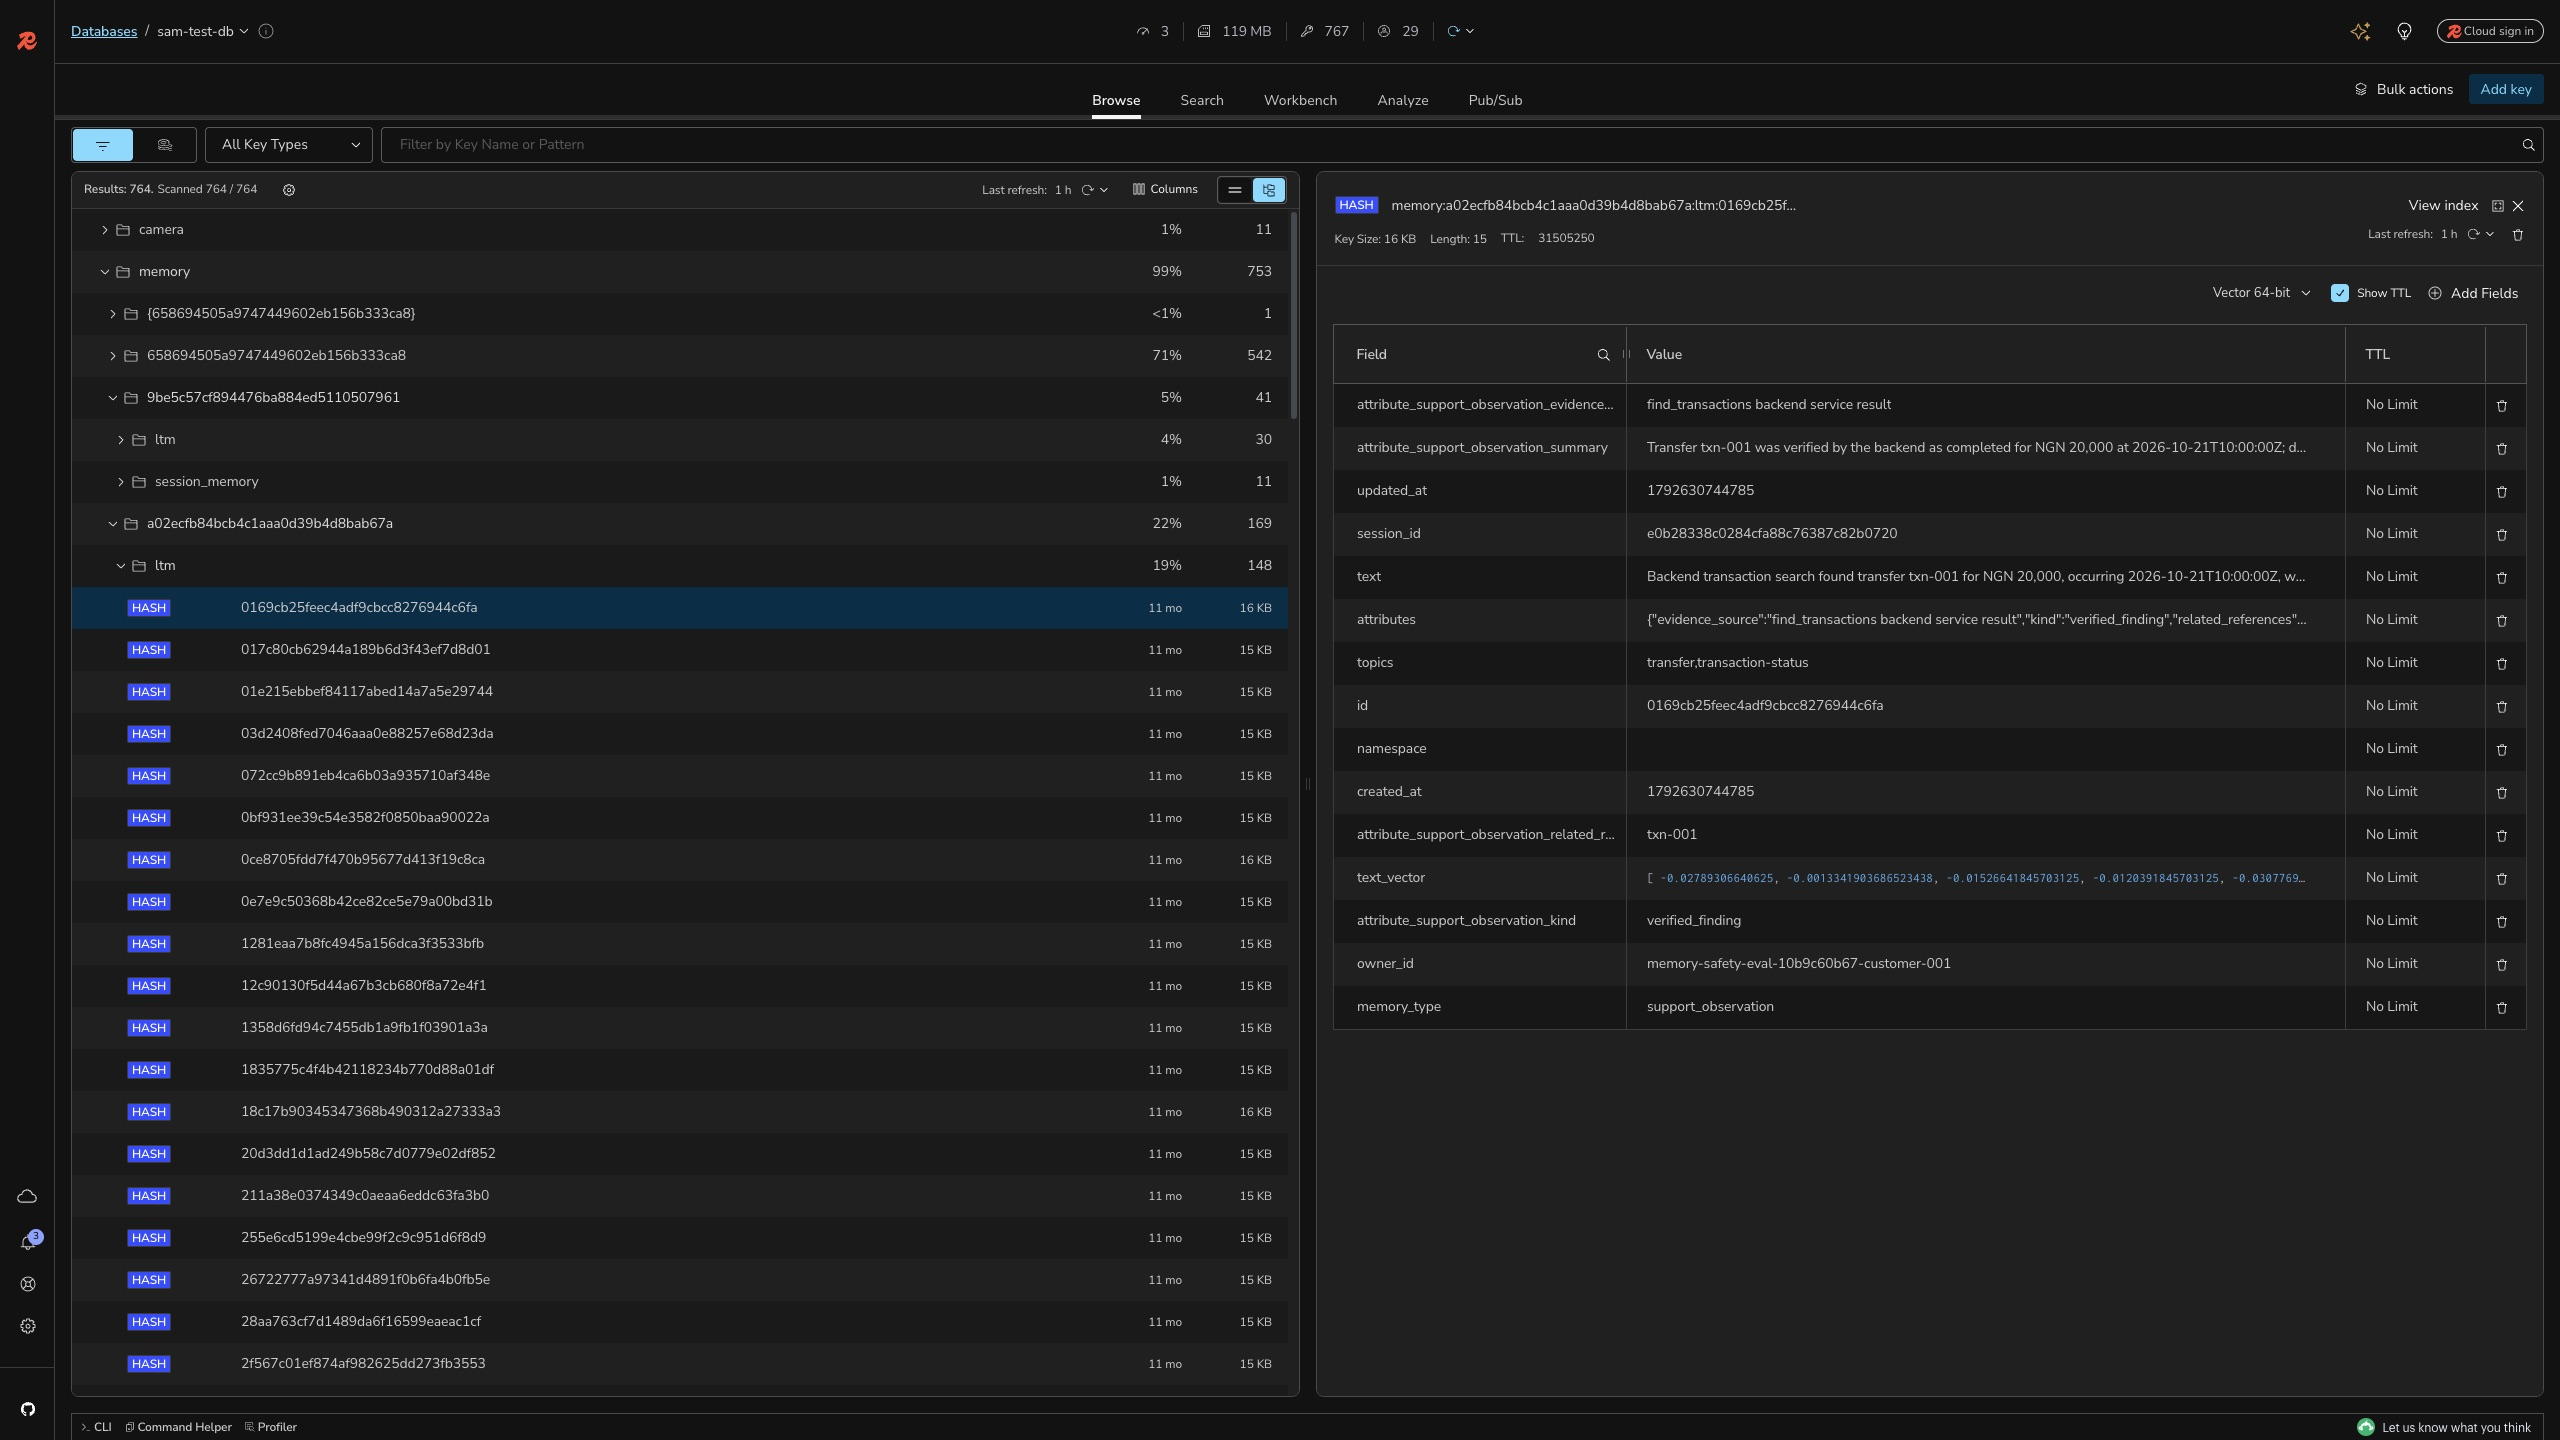
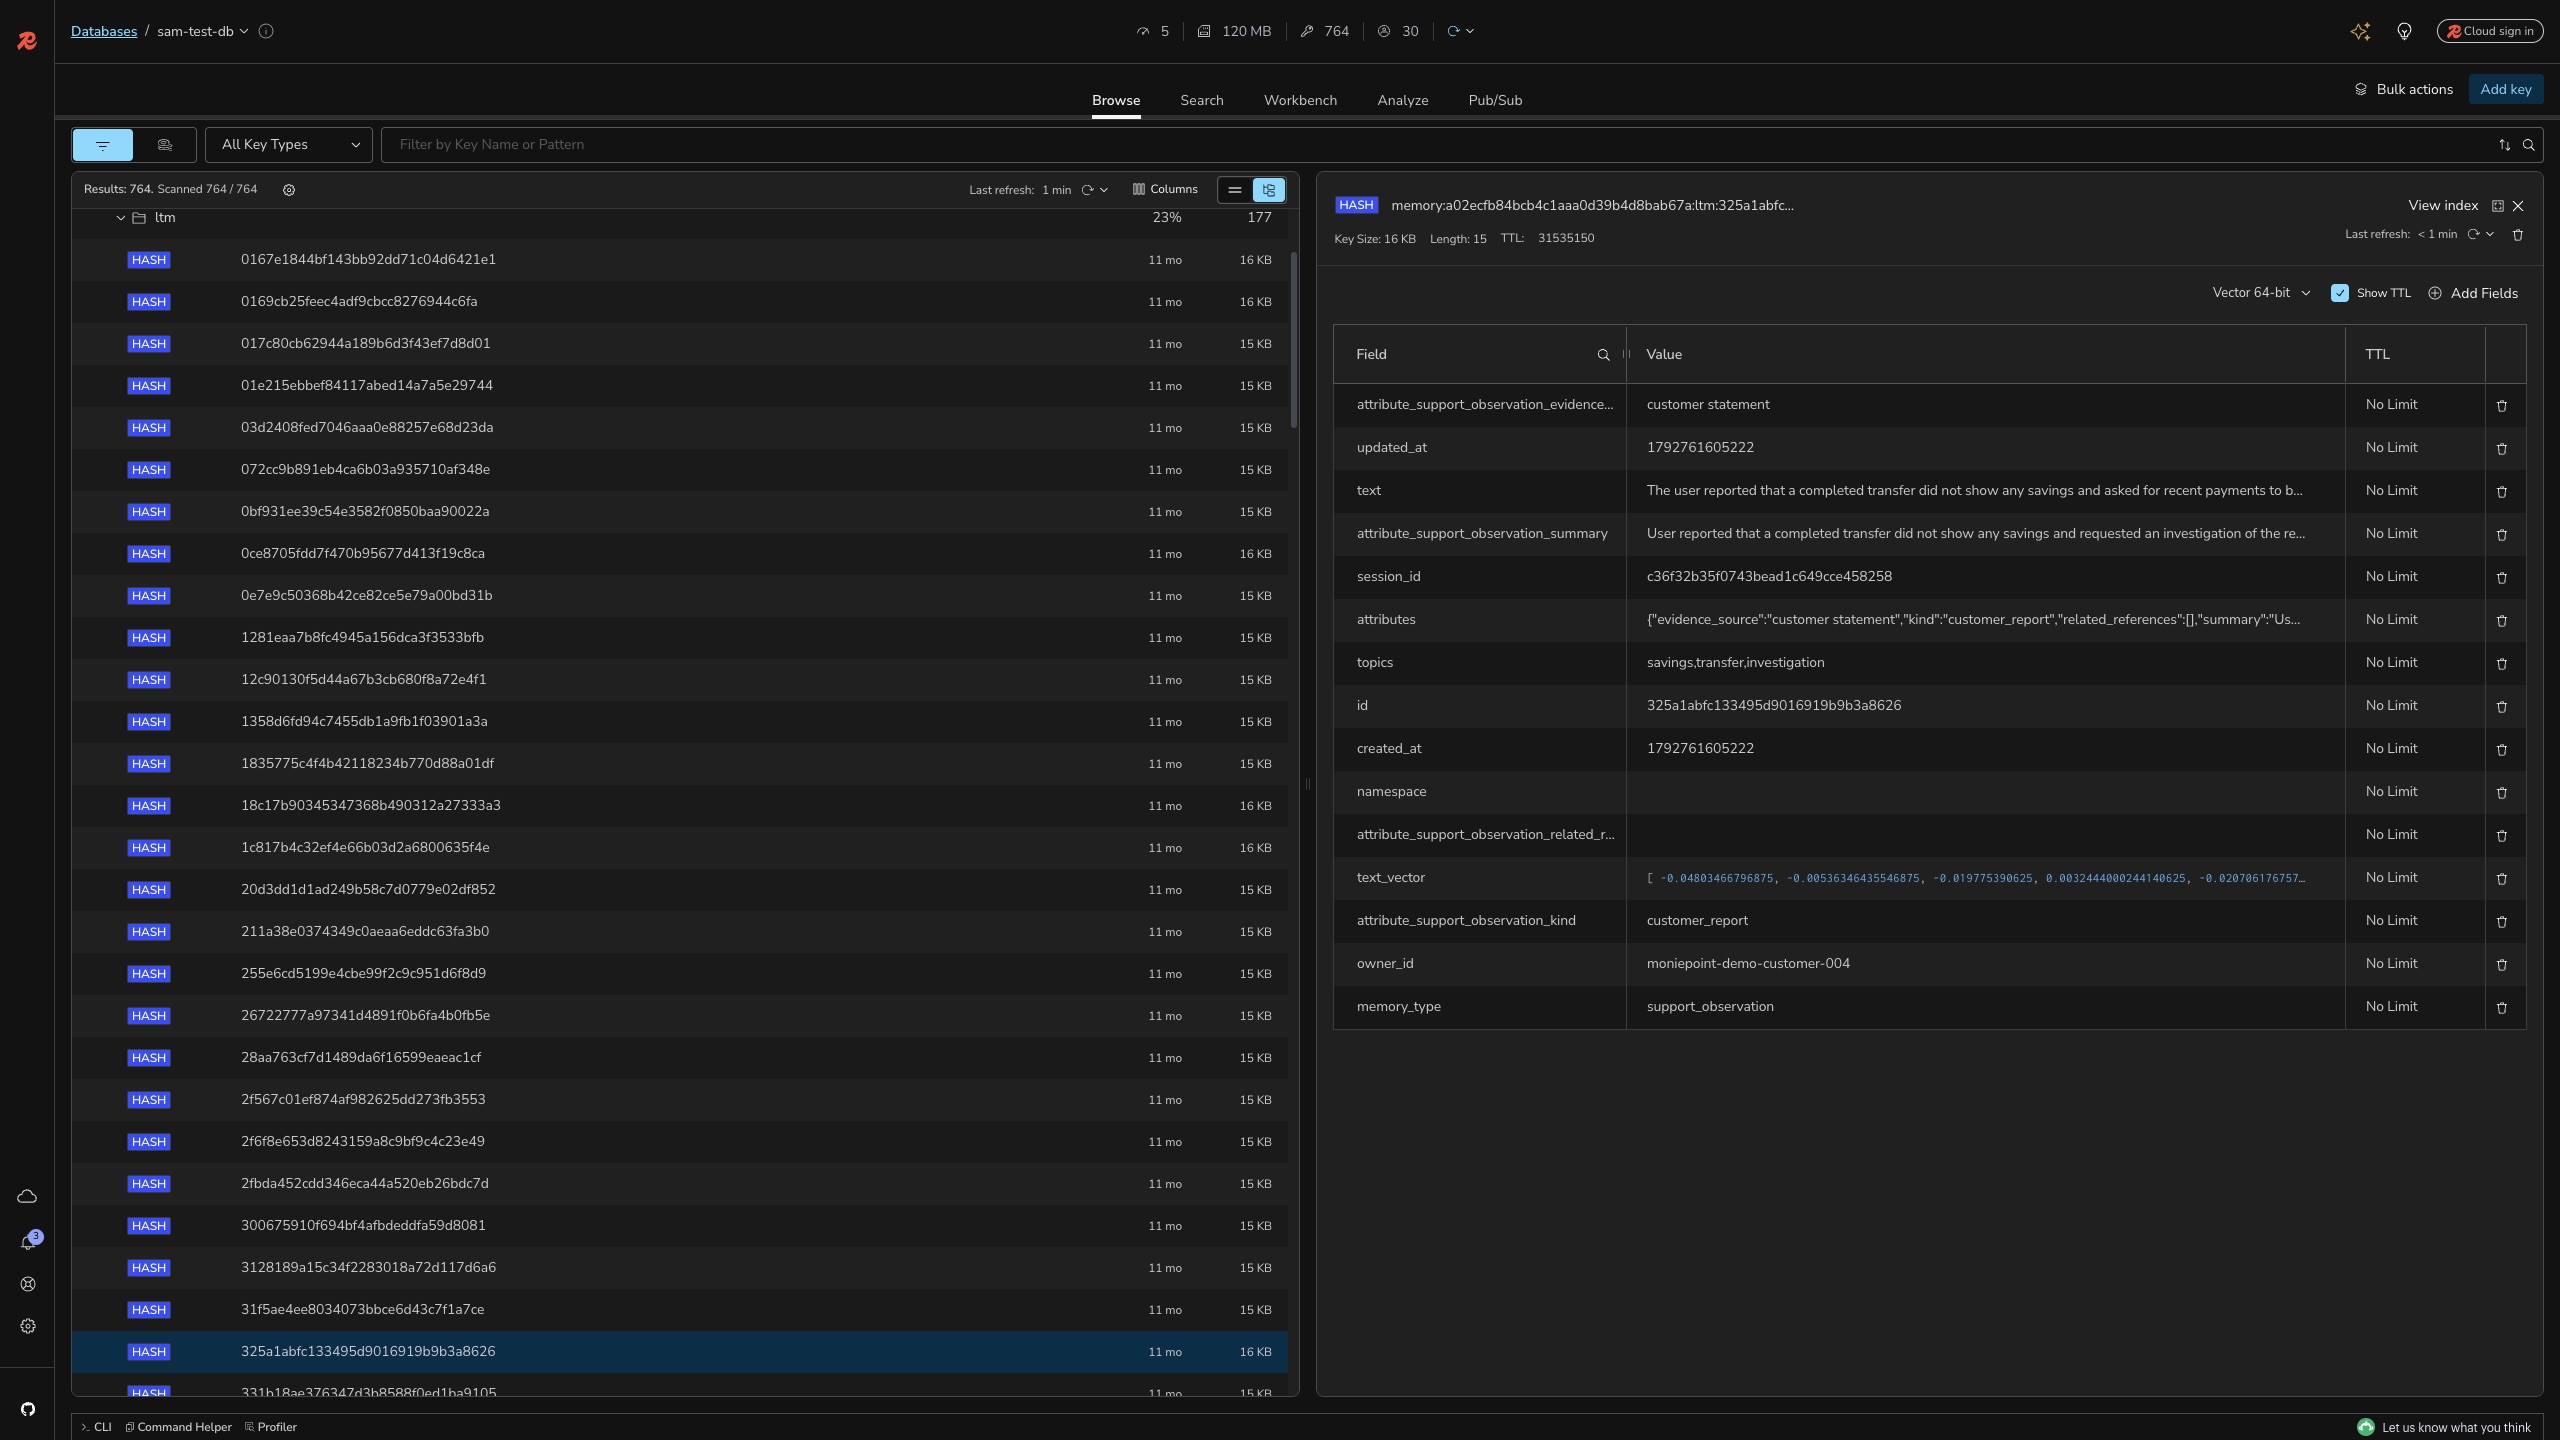
Match Redis Insight screenshot to walkthrough memory

diff --git a/docs/walkthrough.md b/docs/walkthrough.md
@@ -139,9 +139,12 @@ application database also holds Iris memories.
 
 ![Redis Insight displaying a stored support observation and its fields](images/13-redis-insight.jpg)
 
-This Redis Insight screenshot shows an **earlier fictional test observation**,
-not Emeka's new memory. It illustrates the storage fields. The app screenshots
-above are the evidence for the newly extracted memory crossing sessions.
+This is **the same newly extracted memory** shown in the app screenshots above:
+`325a1abfc133495d9016919b9b3a8626`. Its `session_id` points to Session A
+(`c36f32b35f0743bead1c649cce458258`), and its `owner_id` is
+`moniepoint-demo-customer-004`, Emeka's scope. Its kind is `customer_report`,
+with `customer statement` as the evidence source. These matching identifiers
+connect the first conversation, the stored record, and its recall in Session B.
 
 The fields worth pointing out are:
 
